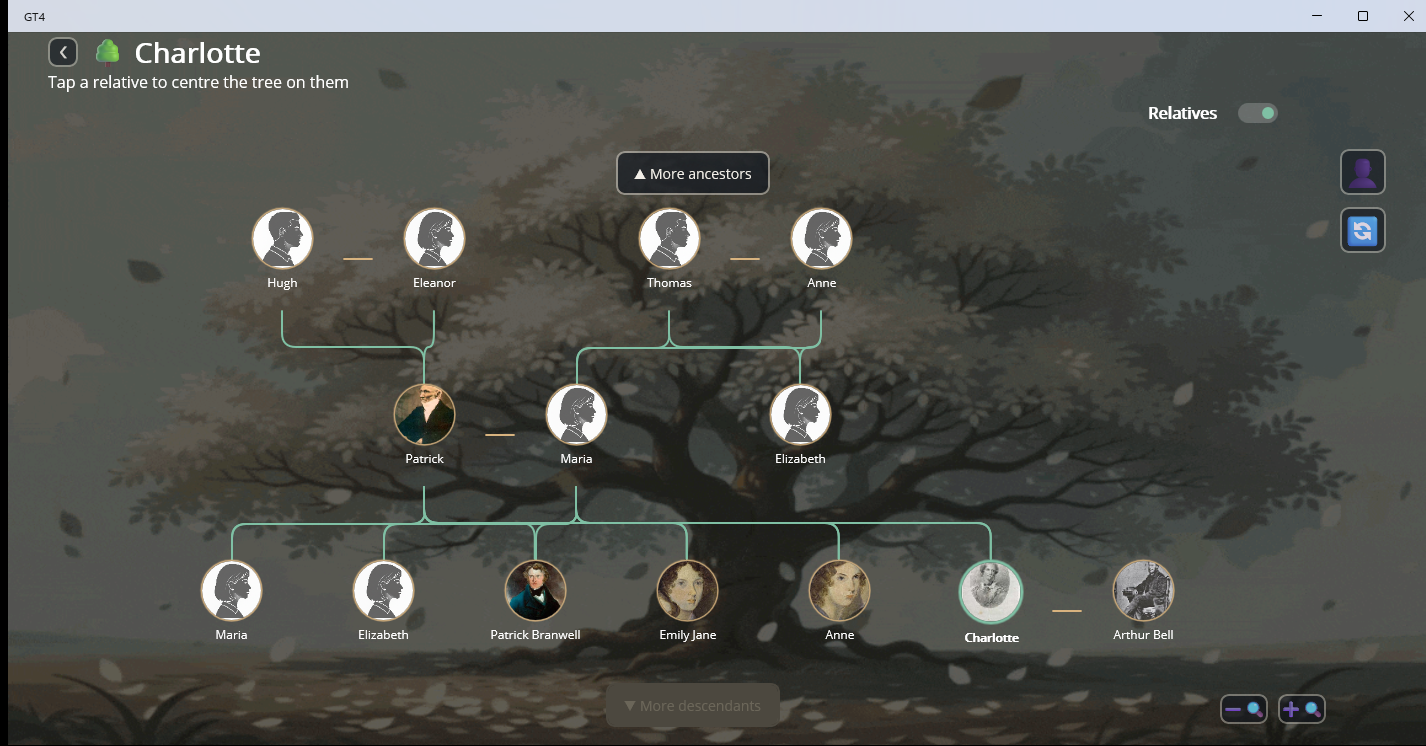
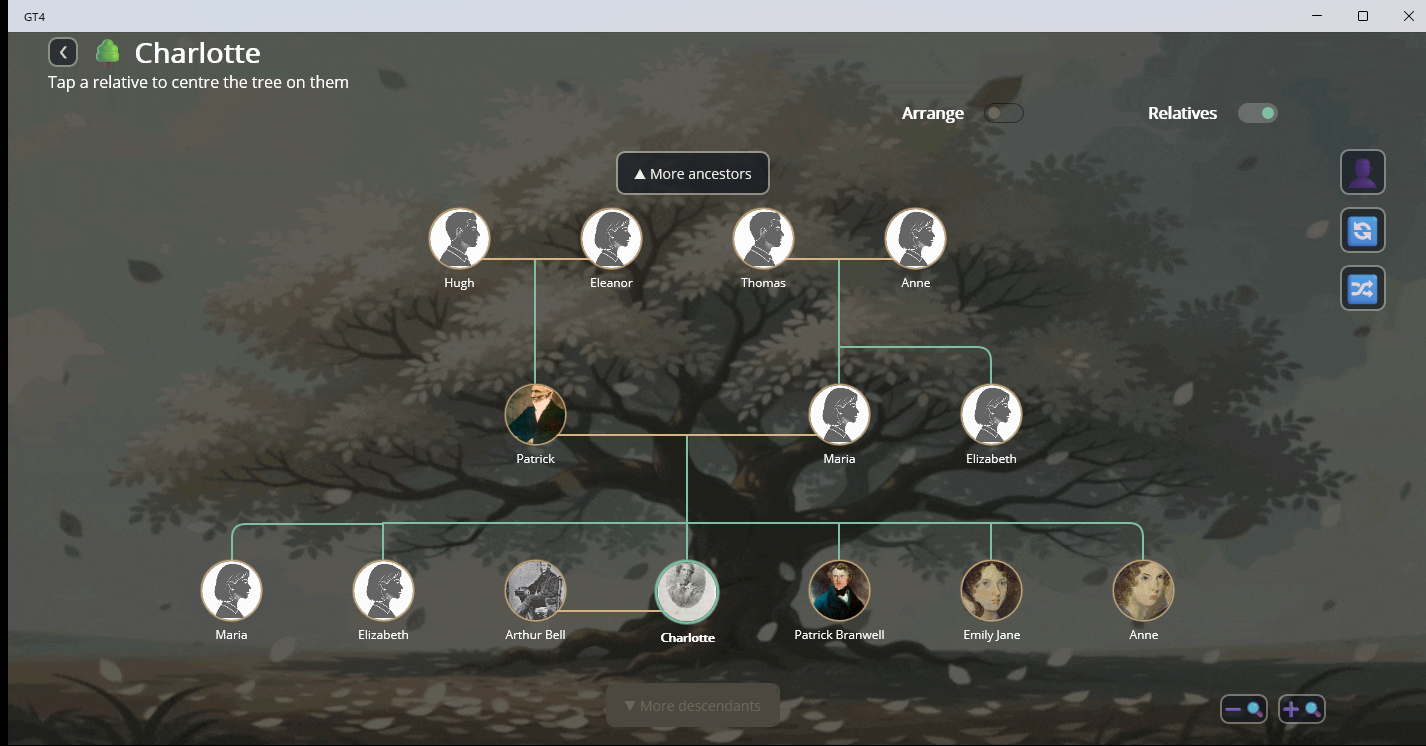
(*) Re-shoot the family-tree screenshots for the new layout
The lead shot and its dark twin showed the spring layout that the
tidy-pedigree layout (#469) replaced. Both are re-shot against the
installed 4.0.723.0 MSIX, framed as before. The person, biography and
gallery shots were compared against the same build and kept: their
only differences were date drift and the old project name.

Also records that the sideload check passed, and that a packaged build
on a dev machine reads the developer's own appconfig.json, so a
"defaults" shoot has to clear the format keys first.

diff --git a/doc/store/screenshots/README.md b/doc/store/screenshots/README.md
@@ -26,7 +26,9 @@ opened demo project, and each one's header names it ("Families | Brontë Family
 
 ## Which build each shot came from
 
-All eleven are from a single session against this release branch's tip. Unlike
+Nine are from a single session against the September release branch's tip;
+`06` and `13` were re-shot in October against the installed `4.0.723.0` MSIX
+(see "October 2026 release" below). Unlike
 the previous set, no shot in this set displays the app version (that only ever
 appeared on the now-dropped home screen), so there's no version-pinning
 constraint on which commit they're built from.
@@ -76,15 +78,23 @@ a compromise between showing the settings likely to matter most and hinting at
 what's further down; the date-format settings below it aren't visible in this
 crop.
 
-## Stale since the October 2026 release
+## October 2026 release
 
-- **`06-family-tree.png` and `13-family-tree-dark.png`** show the spring layout
-  that the tidy-pedigree layout (#469) replaced. `06` leads the set, so it must
-  be re-shot before this release's listing goes up. The *Relatives* toggle the
-  choice below depends on still exists (`IncludeCollaterals`), so keep it on.
-- **Not re-checked:** `04-person.png` (person photos can now carry captions),
-  `05-biography.png`, and `08-gallery.png` (the gallery now sorts by title).
-  Compare each against the release build before deciding to keep it.
+- **`06-family-tree.png` and `13-family-tree-dark.png` were re-shot** against the
+  installed `4.0.723.0` MSIX, because the tidy-pedigree layout (#469) replaced
+  the spring layout they showed. Same framing as before: Charlotte centred,
+  *Relatives* on. The new *Arrange* switch and the 🔀 button are in frame.
+- **`04-person.png`, `05-biography.png` and `08-gallery.png` were compared
+  against the same build and kept.** The only differences were drift, not app
+  changes: "since birth" reads a month later, and `08`'s header spells the
+  project "Bronte" because of the name it was shot with. The gallery's new
+  sort-by-title gives the same order for the demo tree.
+- **The packaged app reads the developer's own `appconfig.json`.** MSIX doesn't
+  redirect a file that already exists in `%APPDATA%`, so a sideloaded build on a
+  dev machine starts with that machine's name and date formats, not the
+  defaults. The README's "default name/date formats" meant removing the
+  `NameFormatter.*`, `DateFormatter.*Format` and `DateSpanFormatter.*` keys
+  (backed up first, restored after), not trusting a fresh install.
 
 ## Still worth fixing
 

diff --git a/doc/store/release-and-submission.md b/doc/store/release-and-submission.md
@@ -270,13 +270,17 @@ Pulled live on 2026-10-09; none touch the Windows Store build's correctness.
 - **#262** — memory growth scrolling the families list one card at a time;
   partly fixed earlier, the remainder shipped in every earlier release.
 
-**The two family-tree screenshots are stale.** `06-family-tree.png` (the lead
-shot) and `13-family-tree-dark.png` show the spring layout that #469 replaced,
-so they misrepresent the screen the Description now describes. Re-shoot both
-before uploading. The other nine were not re-checked against this build;
-`04-person.png` (photo captions), `05-biography.png` and `08-gallery.png` (now
-sorted by title) are the likeliest to differ. See
-[screenshots/README.md](screenshots/README.md).
+**The two family-tree screenshots were re-shot** against the installed
+`4.0.723.0` MSIX, since #469 replaced the layout they showed; `04`, `05` and `08`
+were compared against the same build and kept. Upload the two new files by hand
+in Partner Center: the CSV's screenshot rows still point to September's assets.
+See [screenshots/README.md](screenshots/README.md).
+
+**The sideload check passed** on 2026-10-09: `4.0.723.0` installed from the
+release's `.msix`, `Get-AppxPackage` reports PFN
+`gasizdat.GenealogyTree_25ksdz0mncfjg`, and the app launched, opened a project
+and drove the family tree. The Windows App Certification Kit run is still up to
+whoever submits.
 
 The palette needs no inventory here any more. #358 and #360 cleared the
 last of the MAUI template colours, and what replaced them is pinned by the

diff --git a/doc/store/microsoft-store-listing-en.md b/doc/store/microsoft-store-listing-en.md
@@ -222,9 +222,9 @@ verify the current limit and trim from the bottom if needed.*
   attribution line from the demo file's `TITL` tags, so it reads more like a
   credits list than a gallery. See
   [screenshots/README.md](screenshots/README.md) ("Still worth fixing").
-- **The two family-tree screenshots predate the tidy-pedigree layout** (#469),
-  and `06-family-tree.png` leads the set. Re-shoot both before uploading — see
-  screenshots/README.md ("Stale since the October 2026 release").
+- **The two family-tree screenshots were re-shot for the tidy-pedigree layout**
+  (#469). Upload them by hand; the CSV's screenshot rows still name
+  September's assets. See screenshots/README.md ("October 2026 release").
 - **The home/project-list screen is deliberately not in the screenshot set**
   — see screenshots/README.md ("No home screen in this set").
 - **The ".gt4 double-click to open" claim (Features list, What's new) is
